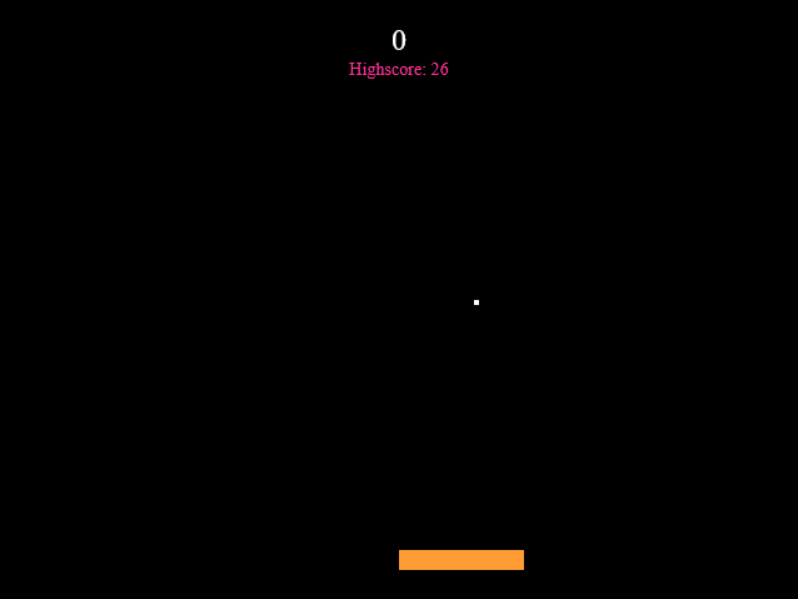
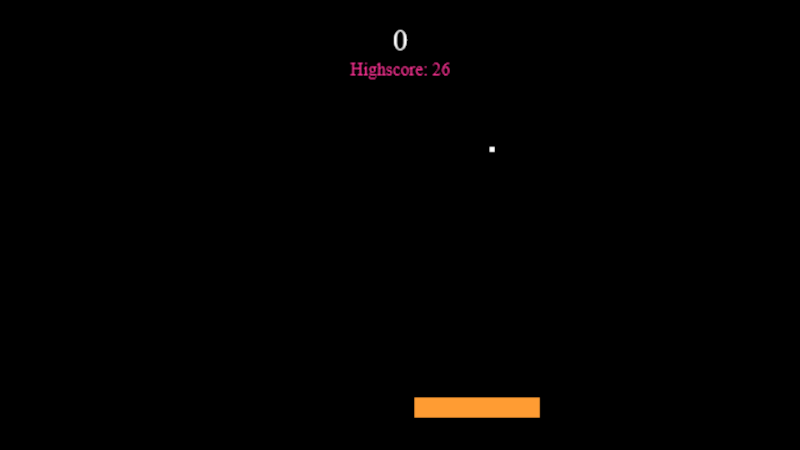
Updated styling on projects page

Changed region(s): [[0.4812, 0.8711, 0.6917, 0.9644], [0.4211, 0.0311, 0.5714, 0.1867], [0.6015, 0.3111, 0.6316, 0.3422]]

diff --git a/htmt/pages/css/styles.css b/htmt/pages/css/styles.css
@@ -68,7 +68,7 @@ main {
 	padding: 30px 0;
 }
 
-section header {
+section > header {
 	position: relative;
 	margin: auto;
 	padding: 15px;
@@ -76,7 +76,7 @@ section header {
 	box-shadow: 4px 4px 8px rgba(0,0,0,0.4);
 }
 
-section header::before {
+section > header::before {
 	content: '';
 	position: absolute;
 	left: 0;
@@ -123,7 +123,7 @@ footer {
 	flex-direction: row-reverse;
 }
 
-section header .container {
+section > header .container {
 	z-index: 2;
 }
 
@@ -139,6 +139,12 @@ article:last-child {
 
 .dark article {
 	border-color: #333;
+}
+
+article > header {
+	height: 120px;
+	margin: auto -30px 30px -30px;
+	position: relative;
 }
 
 @media screen and (max-width: 1000px) {
